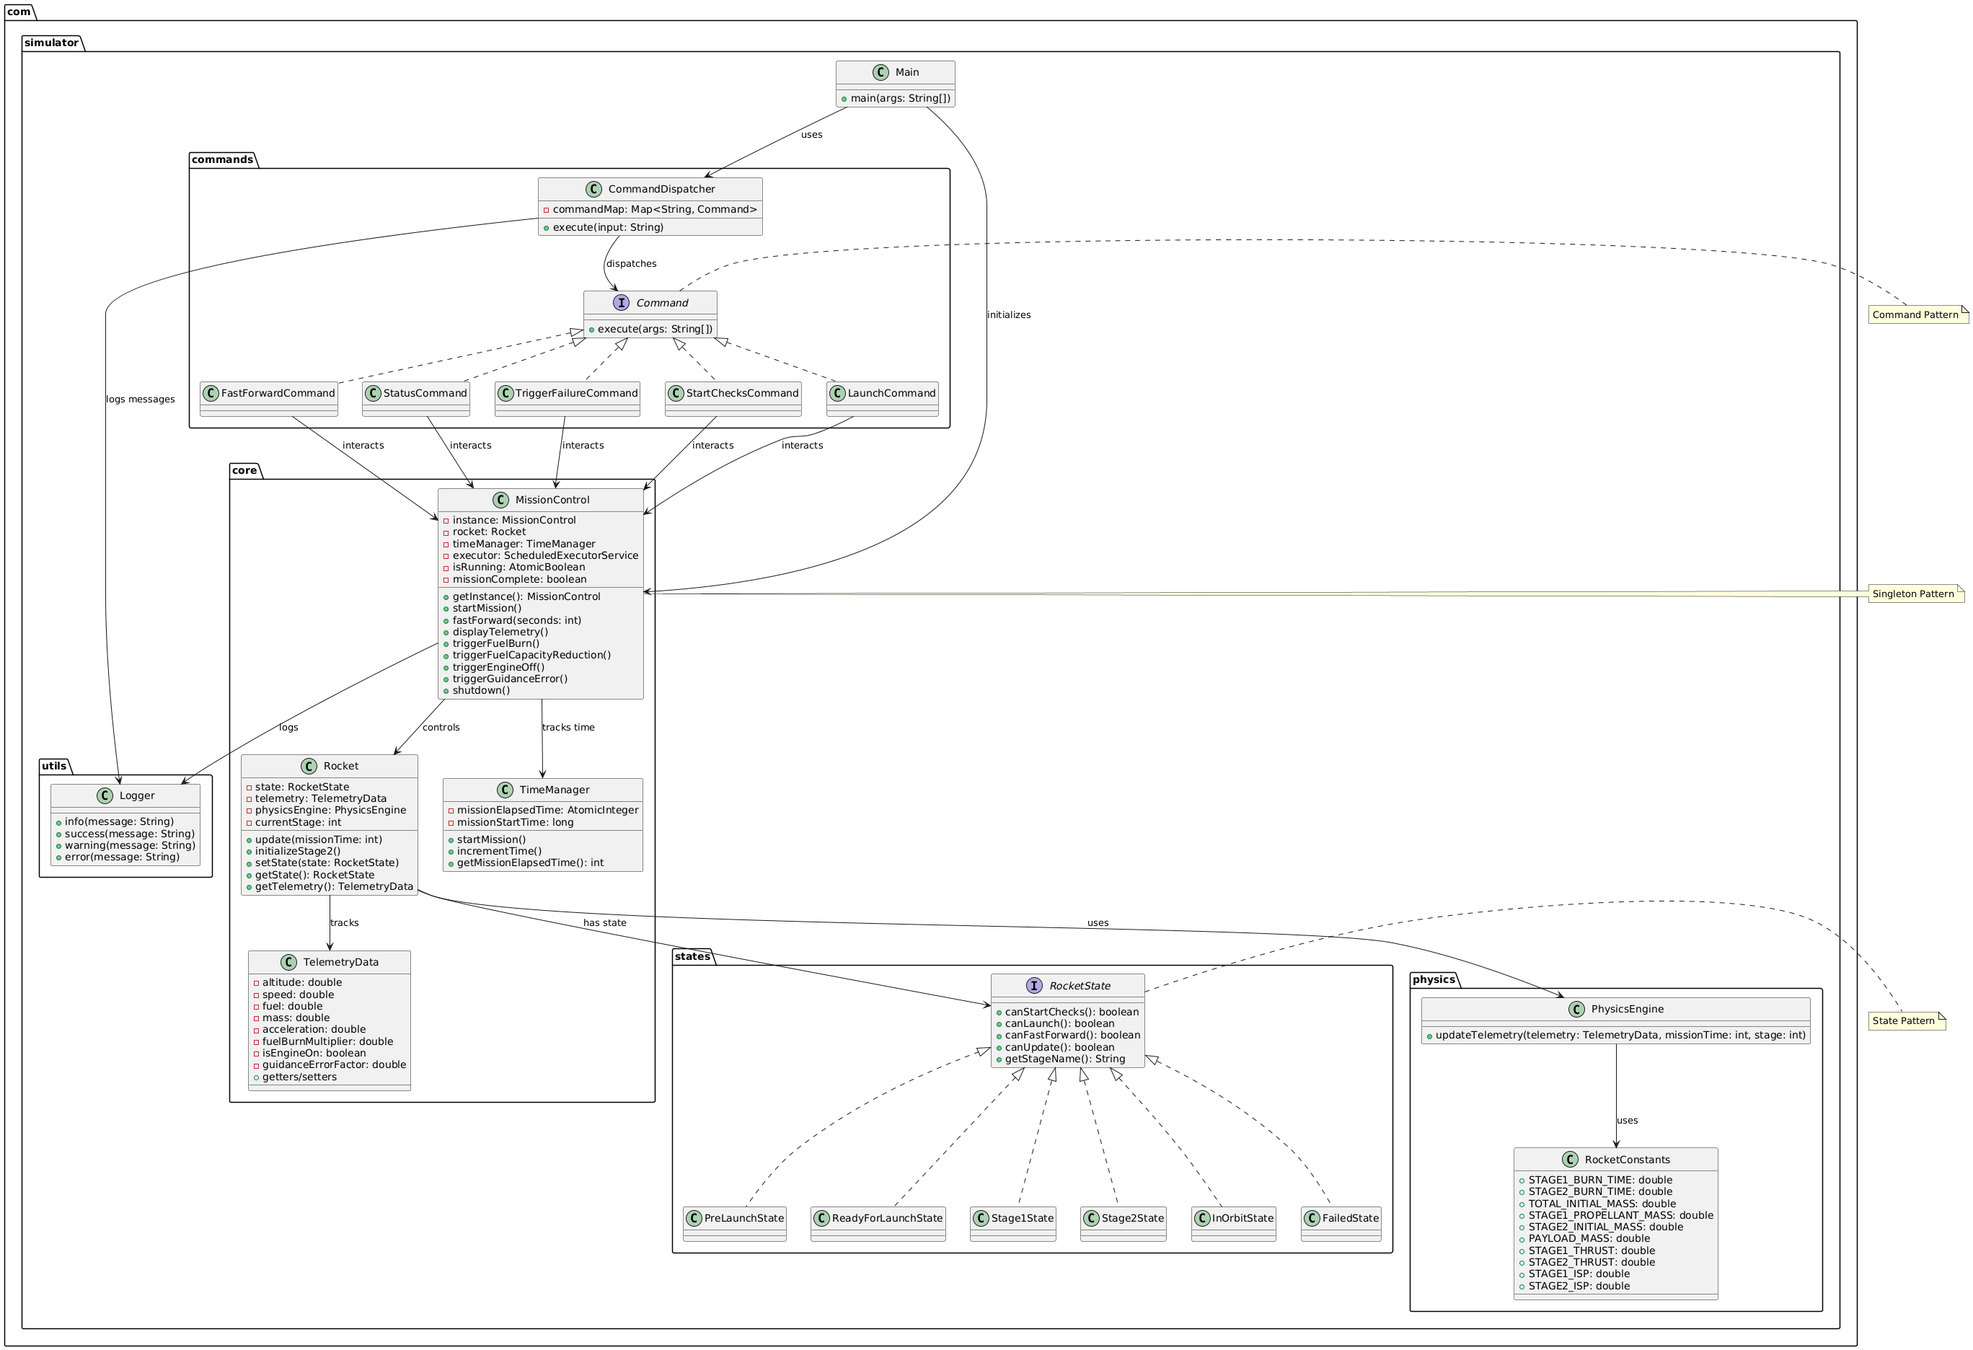
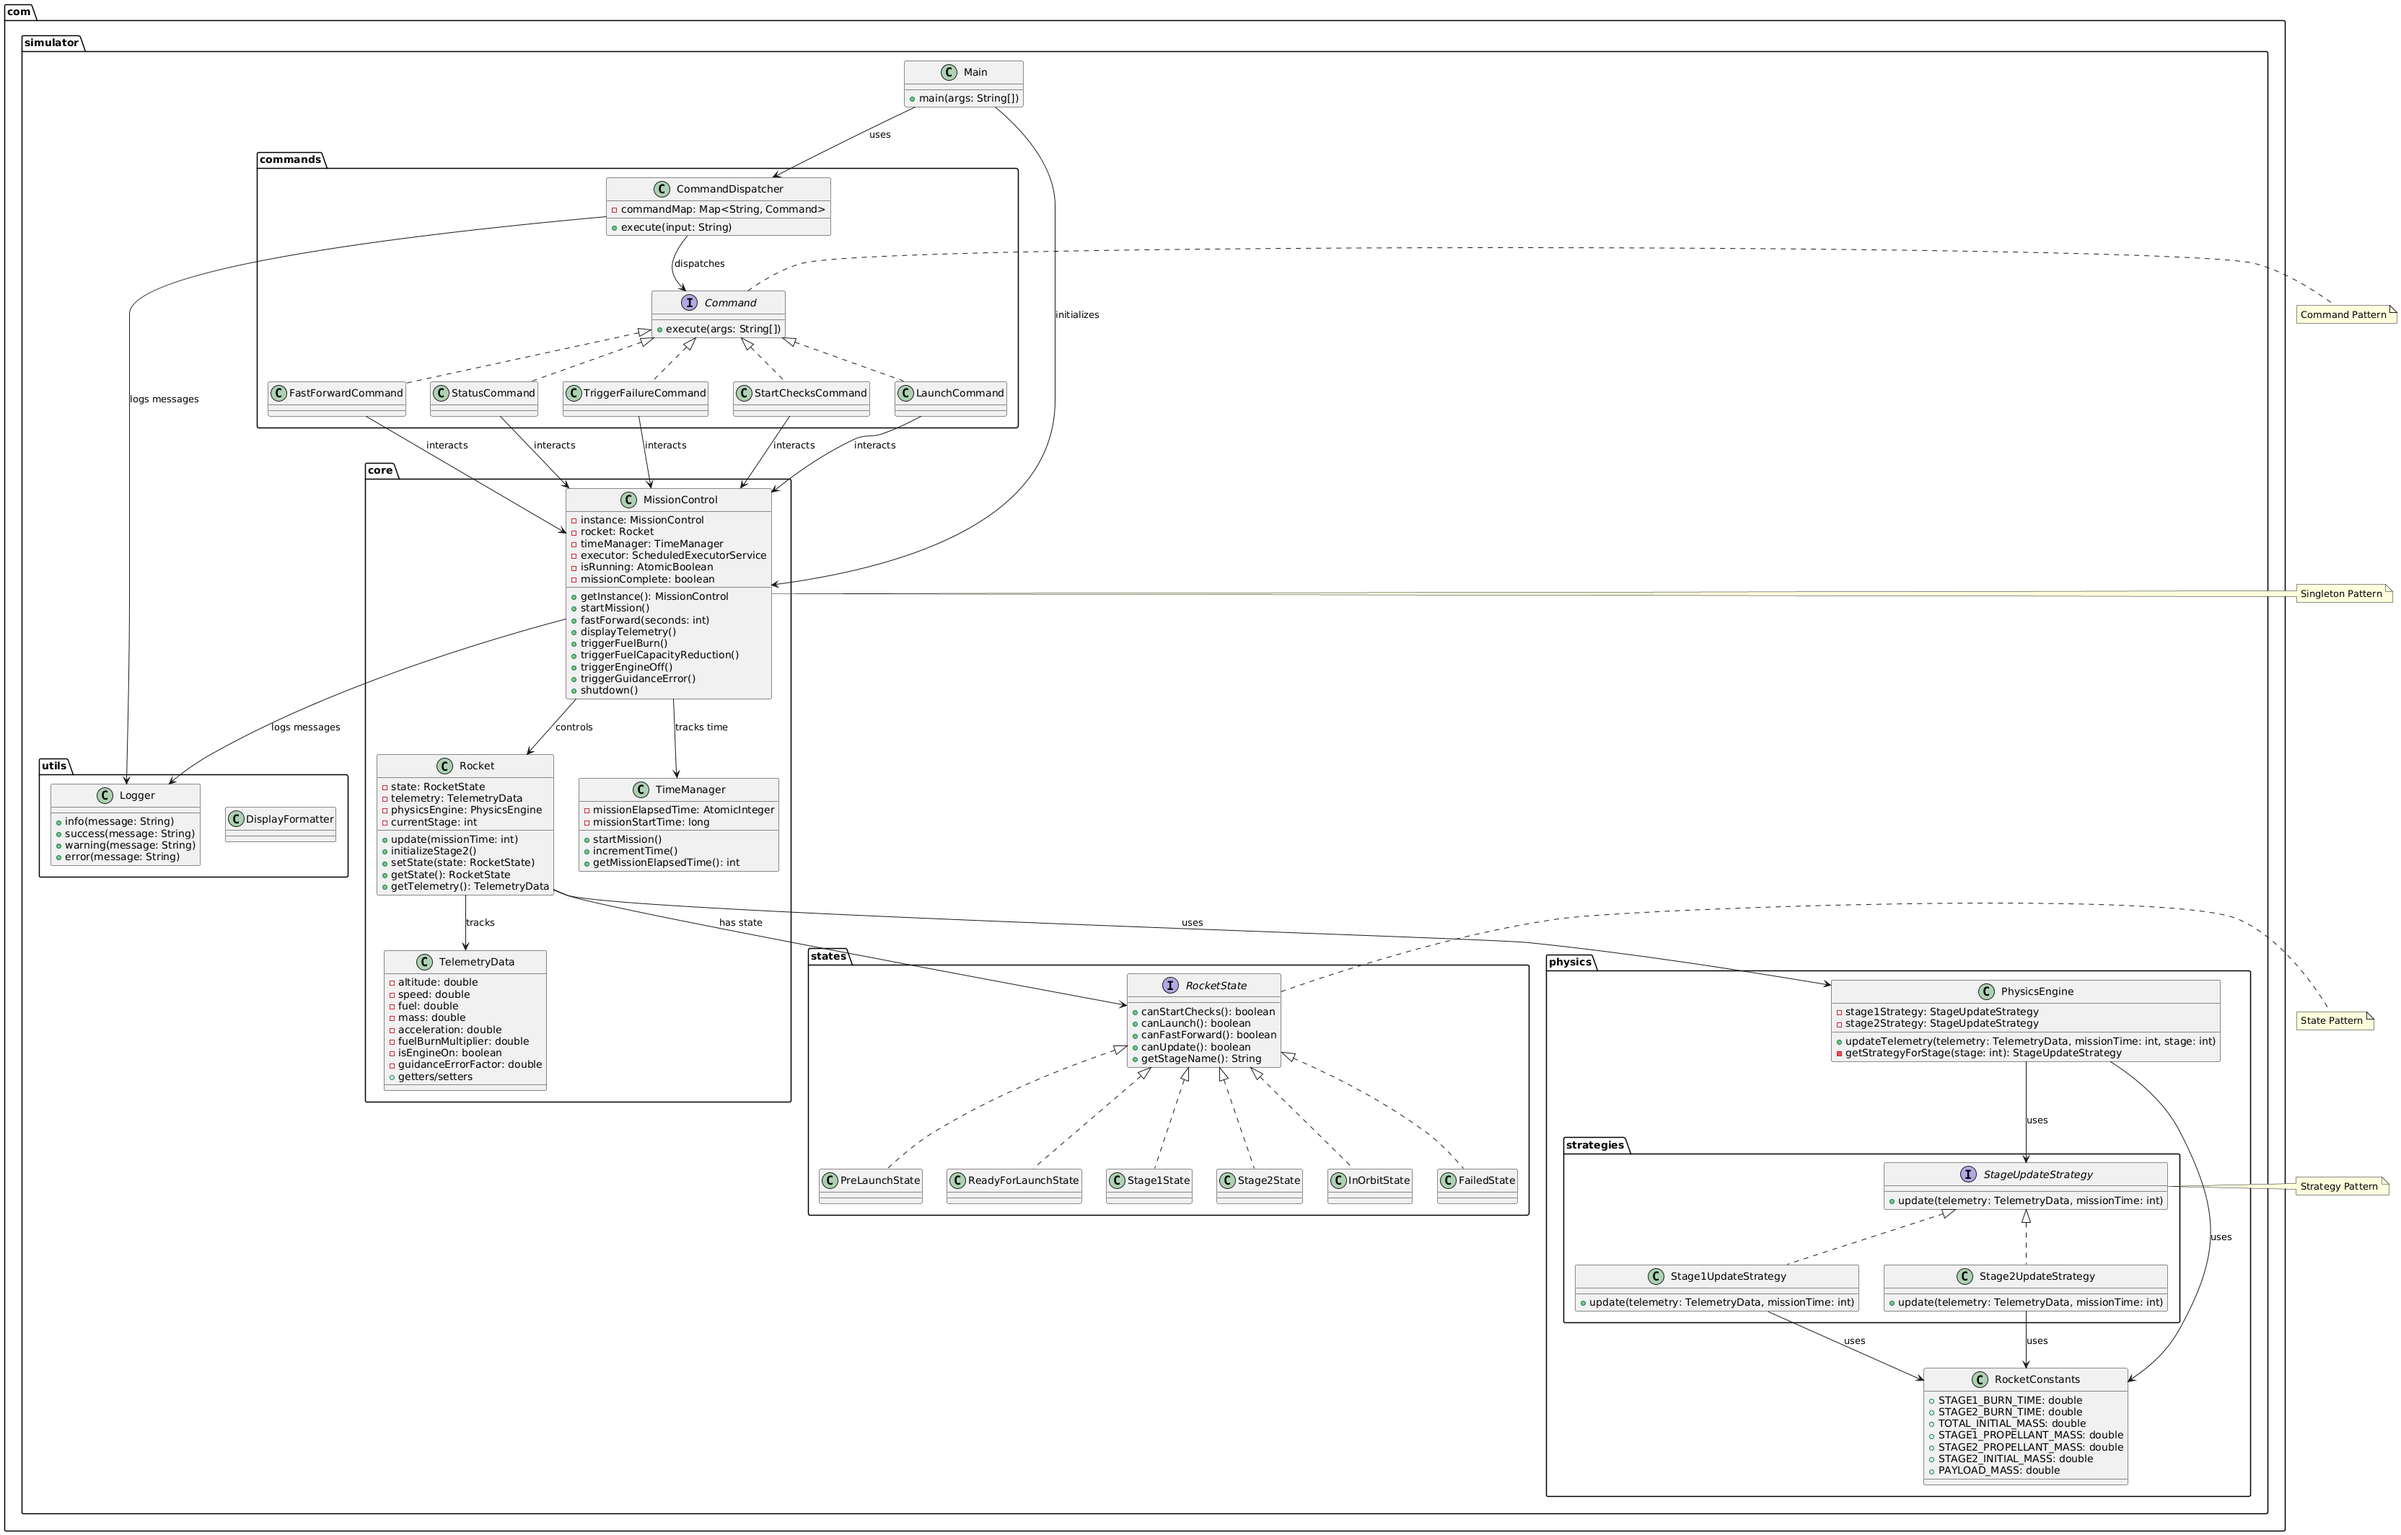
Refactor physics engine with strategy pattern for stages
Refactored PhysicsEngine to use a strategy pattern for stage-specific telemetry updates, moving stage logic into Stage1UpdateStrategy and Stage2UpdateStrategy classes. Added a StageUpdateStrategy interface and updated the Readme to reflect new structure and corrected rocket constants. Also updated the class diagram and references.

diff --git a/Exercise-2/Rocket-Launch-Simulator/src/com/simulator/physics/PhysicsEngine.java b/Exercise-2/Rocket-Launch-Simulator/src/com/simulator/physics/PhysicsEngine.java
@@ -1,78 +1,33 @@
 package com.simulator.physics;
 
 import com.simulator.core.TelemetryData;
+import com.simulator.physics.strategies.StageUpdateStrategy;
+import com.simulator.physics.strategies.Stage1UpdateStrategy;
+import com.simulator.physics.strategies.Stage2UpdateStrategy;
 
 public class PhysicsEngine {
+    private StageUpdateStrategy stage1Strategy;
+    private StageUpdateStrategy stage2Strategy;
 
     public PhysicsEngine() {
+        this.stage1Strategy = new Stage1UpdateStrategy();
+        this.stage2Strategy = new Stage2UpdateStrategy();
     }
 
     public void updateTelemetry(TelemetryData telemetry, int missionTime, int stage) {
         if (stage == 0) return;
 
-        if (stage == 1) {
-            updateStage1(telemetry, missionTime);
-        } else if (stage == 2) {
-            updateStage2(telemetry, missionTime);
+        StageUpdateStrategy strategy = getStrategyForStage(stage);
+        if (strategy != null) {
+            strategy.update(telemetry, missionTime);
         }
     }
 
-    private void updateStage1(TelemetryData telemetry, int missionTime) {
-        if (missionTime > RocketConstants.STAGE1_BURN_TIME) {
-            double remainingFuelPercentage = ((RocketConstants.TOTAL_INITIAL_MASS - RocketConstants.STAGE1_PROPELLANT_MASS)
-                    / RocketConstants.TOTAL_INITIAL_MASS) * 100;
-            telemetry.setFuel(remainingFuelPercentage);
-            telemetry.setAltitude(80.0);
-            telemetry.setSpeed(8000.0);
-            return;
+    private StageUpdateStrategy getStrategyForStage(int stage) {
+        switch (stage) {
+            case 1: return stage1Strategy;
+            case 2: return stage2Strategy;
+            default: return null;
         }
-
-        double fuelBurnMultiplier = telemetry.getFuelBurnMultiplier();
-        double stage1FuelConsumed = RocketConstants.STAGE1_PROPELLANT_MASS * (missionTime / RocketConstants.STAGE1_BURN_TIME) * fuelBurnMultiplier;
-
-        double remainingFuel = RocketConstants.TOTAL_INITIAL_MASS - stage1FuelConsumed;
-        telemetry.setFuel(Math.max(0, (remainingFuel / RocketConstants.TOTAL_INITIAL_MASS) * 100));
-
-        double altitudeGain = telemetry.isEngineOn() ? (6.13 / 50 * missionTime) : telemetry.getAltitude();
-        altitudeGain *= telemetry.getGuidanceErrorFactor();
-        telemetry.setAltitude(altitudeGain);
-
-        double speedGain = telemetry.isEngineOn() ? (882.0 / 50 * missionTime) : telemetry.getSpeed();
-        telemetry.setSpeed(speedGain);
-
-        telemetry.setMass(RocketConstants.TOTAL_INITIAL_MASS - stage1FuelConsumed);
-    }
-
-    private void updateStage2(TelemetryData telemetry, int missionTime) {
-        int stage2Time = missionTime - (int) RocketConstants.STAGE1_BURN_TIME;
-        if (stage2Time > RocketConstants.STAGE2_BURN_TIME) {
-
-            double remainingFuelPercentage = ((RocketConstants.TOTAL_INITIAL_MASS
-                    - RocketConstants.STAGE1_PROPELLANT_MASS
-                    - RocketConstants.STAGE2_PROPELLANT_MASS)
-                    / RocketConstants.TOTAL_INITIAL_MASS) * 100;
-            telemetry.setFuel(remainingFuelPercentage);
-            return;
-        }
-
-        double progress = stage2Time / RocketConstants.STAGE2_BURN_TIME;
-
-        double fuelBurnMultiplier = telemetry.getFuelBurnMultiplier();
-        double stage2FuelConsumed = RocketConstants.STAGE2_PROPELLANT_MASS * progress * fuelBurnMultiplier;
-        double totalFuelConsumed = RocketConstants.STAGE1_PROPELLANT_MASS + stage2FuelConsumed;
-
-        double remainingFuel = RocketConstants.TOTAL_INITIAL_MASS - totalFuelConsumed;
-        telemetry.setFuel(Math.max(0, (remainingFuel / RocketConstants.TOTAL_INITIAL_MASS) * 100));
-
-        double altitudeGain = telemetry.isEngineOn() ? (80 + (320 * progress)) : telemetry.getAltitude();
-        altitudeGain *= telemetry.getGuidanceErrorFactor();
-        telemetry.setAltitude(altitudeGain);
-
-        double speedGain = telemetry.isEngineOn() ? (8000 + (19358 * progress)) : telemetry.getSpeed();
-        telemetry.setSpeed(speedGain);
-
-        telemetry.setMass(RocketConstants.STAGE2_INITIAL_MASS +
-                RocketConstants.PAYLOAD_MASS -
-                stage2FuelConsumed);
     }
 }

diff --git a/Exercise-2/Rocket-Launch-Simulator/src/com/simulator/physics/strategies/Stage2UpdateStrategy.java b/Exercise-2/Rocket-Launch-Simulator/src/com/simulator/physics/strategies/Stage2UpdateStrategy.java
@@ -1,0 +1,40 @@
+package com.simulator.physics.strategies;
+
+import com.simulator.core.TelemetryData;
+import com.simulator.physics.RocketConstants;
+
+public class Stage2UpdateStrategy implements StageUpdateStrategy {
+
+    @Override
+    public void update(TelemetryData telemetry, int missionTime) {
+        int stage2Time = missionTime - (int) RocketConstants.STAGE1_BURN_TIME;
+        if (stage2Time > RocketConstants.STAGE2_BURN_TIME) {
+            double remainingFuelPercentage = ((RocketConstants.TOTAL_INITIAL_MASS
+                    - RocketConstants.STAGE1_PROPELLANT_MASS
+                    - RocketConstants.STAGE2_PROPELLANT_MASS)
+                    / RocketConstants.TOTAL_INITIAL_MASS) * 100;
+            telemetry.setFuel(remainingFuelPercentage);
+            return;
+        }
+
+        double progress = stage2Time / RocketConstants.STAGE2_BURN_TIME;
+
+        double fuelBurnMultiplier = telemetry.getFuelBurnMultiplier();
+        double stage2FuelConsumed = RocketConstants.STAGE2_PROPELLANT_MASS * progress * fuelBurnMultiplier;
+        double totalFuelConsumed = RocketConstants.STAGE1_PROPELLANT_MASS + stage2FuelConsumed;
+
+        double remainingFuel = RocketConstants.TOTAL_INITIAL_MASS - totalFuelConsumed;
+        telemetry.setFuel(Math.max(0, (remainingFuel / RocketConstants.TOTAL_INITIAL_MASS) * 100));
+
+        double altitudeGain = telemetry.isEngineOn() ? (80 + (320 * progress)) : telemetry.getAltitude();
+        altitudeGain *= telemetry.getGuidanceErrorFactor();
+        telemetry.setAltitude(altitudeGain);
+
+        double speedGain = telemetry.isEngineOn() ? (8000 + (19358 * progress)) : telemetry.getSpeed();
+        telemetry.setSpeed(speedGain);
+
+        telemetry.setMass(RocketConstants.STAGE2_INITIAL_MASS +
+                RocketConstants.PAYLOAD_MASS -
+                stage2FuelConsumed);
+    }
+}

diff --git a/Exercise-2/Rocket-Launch-Simulator/src/com/simulator/physics/strategies/Stage1UpdateStrategy.java b/Exercise-2/Rocket-Launch-Simulator/src/com/simulator/physics/strategies/Stage1UpdateStrategy.java
@@ -1,0 +1,34 @@
+package com.simulator.physics.strategies;
+
+import com.simulator.core.TelemetryData;
+import com.simulator.physics.RocketConstants;
+
+public class Stage1UpdateStrategy implements StageUpdateStrategy {
+
+    @Override
+    public void update(TelemetryData telemetry, int missionTime) {
+        if (missionTime > RocketConstants.STAGE1_BURN_TIME) {
+            double remainingFuelPercentage = ((RocketConstants.TOTAL_INITIAL_MASS - RocketConstants.STAGE1_PROPELLANT_MASS)
+                    / RocketConstants.TOTAL_INITIAL_MASS) * 100;
+            telemetry.setFuel(remainingFuelPercentage);
+            telemetry.setAltitude(80.0);
+            telemetry.setSpeed(8000.0);
+            return;
+        }
+
+        double fuelBurnMultiplier = telemetry.getFuelBurnMultiplier();
+        double stage1FuelConsumed = RocketConstants.STAGE1_PROPELLANT_MASS * (missionTime / RocketConstants.STAGE1_BURN_TIME) * fuelBurnMultiplier;
+
+        double remainingFuel = RocketConstants.TOTAL_INITIAL_MASS - stage1FuelConsumed;
+        telemetry.setFuel(Math.max(0, (remainingFuel / RocketConstants.TOTAL_INITIAL_MASS) * 100));
+
+        double altitudeGain = telemetry.isEngineOn() ? (6.13 / 50 * missionTime) : telemetry.getAltitude();
+        altitudeGain *= telemetry.getGuidanceErrorFactor();
+        telemetry.setAltitude(altitudeGain);
+
+        double speedGain = telemetry.isEngineOn() ? (882.0 / 50 * missionTime) : telemetry.getSpeed();
+        telemetry.setSpeed(speedGain);
+
+        telemetry.setMass(RocketConstants.TOTAL_INITIAL_MASS - stage1FuelConsumed);
+    }
+}

diff --git a/Exercise-2/Rocket-Launch-Simulator/src/com/simulator/physics/strategies/StageUpdateStrategy.java b/Exercise-2/Rocket-Launch-Simulator/src/com/simulator/physics/strategies/StageUpdateStrategy.java
@@ -1,0 +1,7 @@
+package com.simulator.physics.strategies;
+
+import com.simulator.core.TelemetryData;
+
+public interface StageUpdateStrategy {
+    void update(TelemetryData telemetry, int missionTime);
+}

diff --git a/Exercise-2/Rocket-Launch-Simulator/Readme.md b/Exercise-2/Rocket-Launch-Simulator/Readme.md
@@ -72,6 +72,10 @@ RocketLaunchSimulator/
    │   ├── TriggerFailureCommand.java
    │   ├── CommandDispatcher.java
    ├── physics/
+   │   ├── strategies/
+   │   │   ├── StageUpdateStrategy.java
+   │   │   ├── Stage1UpdateStrategy.java
+   │   │   ├── Stage2UpdateStrategy.java
    │   ├── PhysicsEngine.java
    │   ├── RocketConstants.java
    ├── utils/
@@ -82,16 +86,9 @@ RocketLaunchSimulator/
 ---
 
 ## Telemetry Values and References
-- **Stage 1 (T+0s to T+162s)**:
-    - T+50s: Altitude: 6.13 km, Speed: 882 km/h, Fuel: 69.14%.
-    - T+162s: Altitude: 80 km, Speed: 8000 km/h, Fuel: 0%.
-- **Stage 2 (T+162s to T+559s)**:
-    - T+559s: Altitude: 400 km, Speed: 27358 km/h, Fuel: 49.62%.
 - **Constants** (in `RocketConstants.java`):
     - `TOTAL_INITIAL_MASS`: 549,054 kg, `STAGE1_PROPELLANT_MASS`: 417,500 kg.
-    - `STAGE2_INITIAL_MASS`: 111,500 kg, `PAYLOAD_MASS`: 22,800 kg.
-    - `STAGE1_THRUST`: 7,607 kN, `STAGE2_THRUST`: 934 kN.
-    - `STAGE1_ISP`: 282 s, `STAGE2_ISP`: 311 s.
+    - `STAGE2_INITIAL_MASS`: 138,054 kg, `STAGE2_PROPELLANT_MASS`: 107,500 kg.
 - **References**:
     - [SpaceX Falcon 9](https://www.spacex.com/vehicles/falcon-9/).
     - [NASA Orbital Mechanics](https://www.nasa.gov/).

diff --git a/README.md b/README.md
@@ -37,6 +37,7 @@ A terminal-based mini-project built using clean code principles and relevant des
 ## References
 
 * [SpaceX Launch Video](https://youtu.be/9H8puVq2oi0?si=-aiHeAYEBpwCzHyG)
+* [SpaceX Falcon 9](https://www.youtube.com/watch?v=F3E3SI2Nqrk)
 
 
     Copyright © 2025 Sri Vignesh S. All rights reserved.
